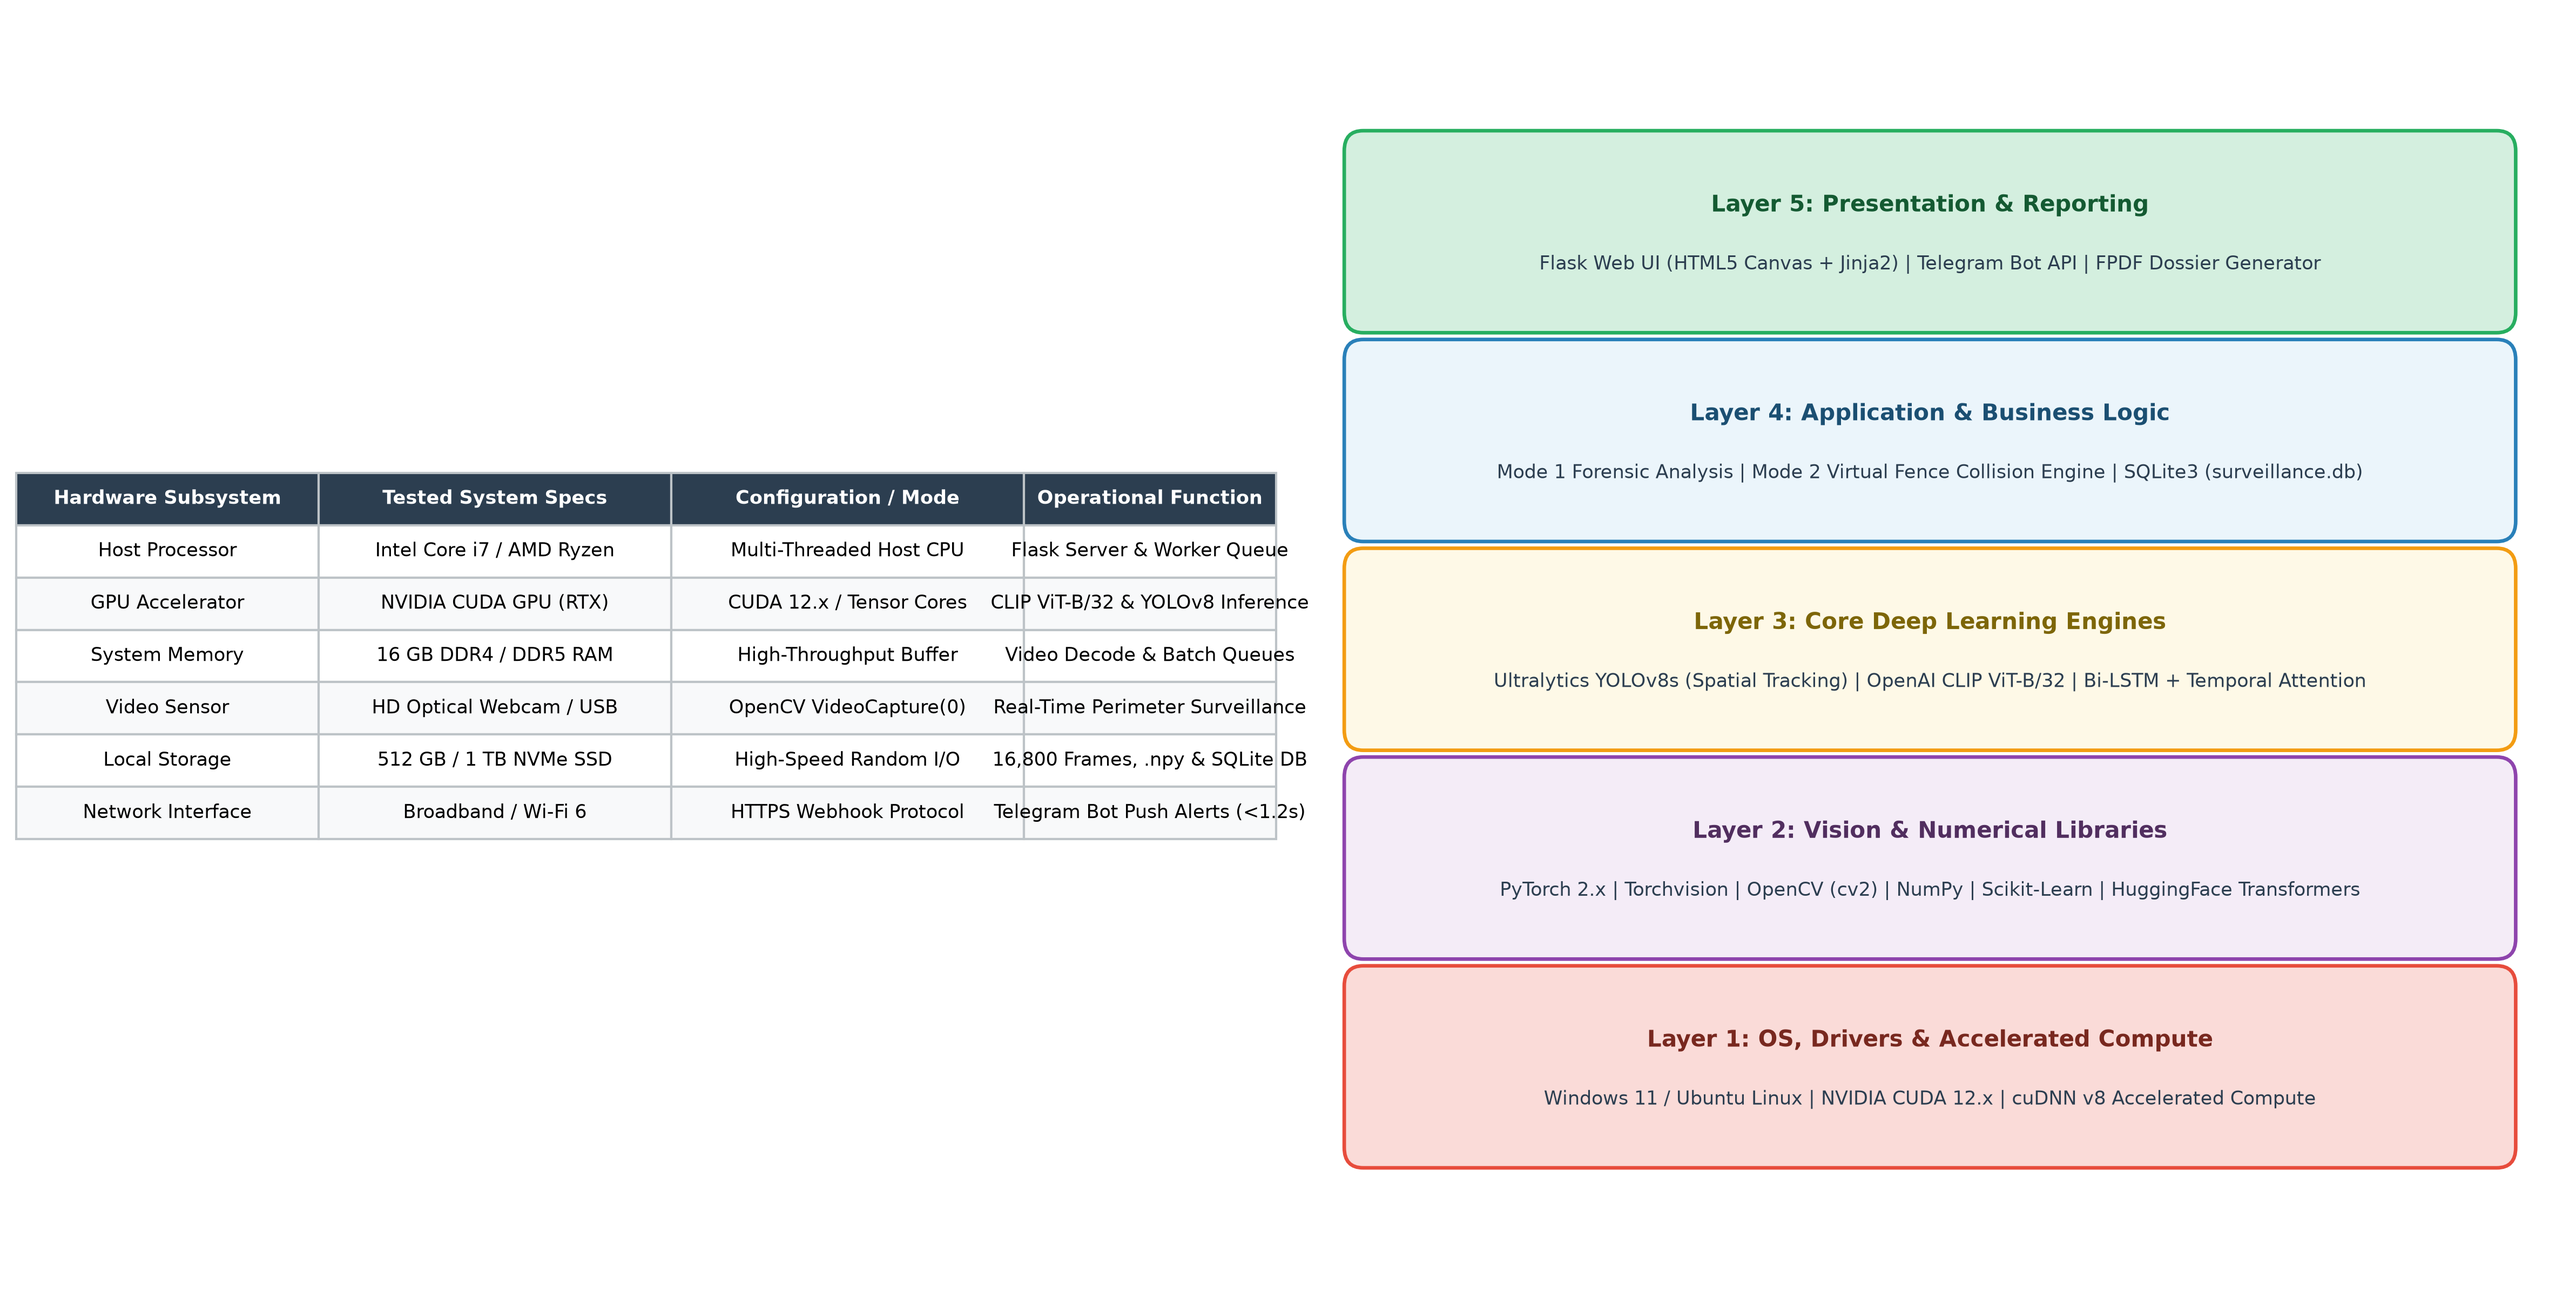
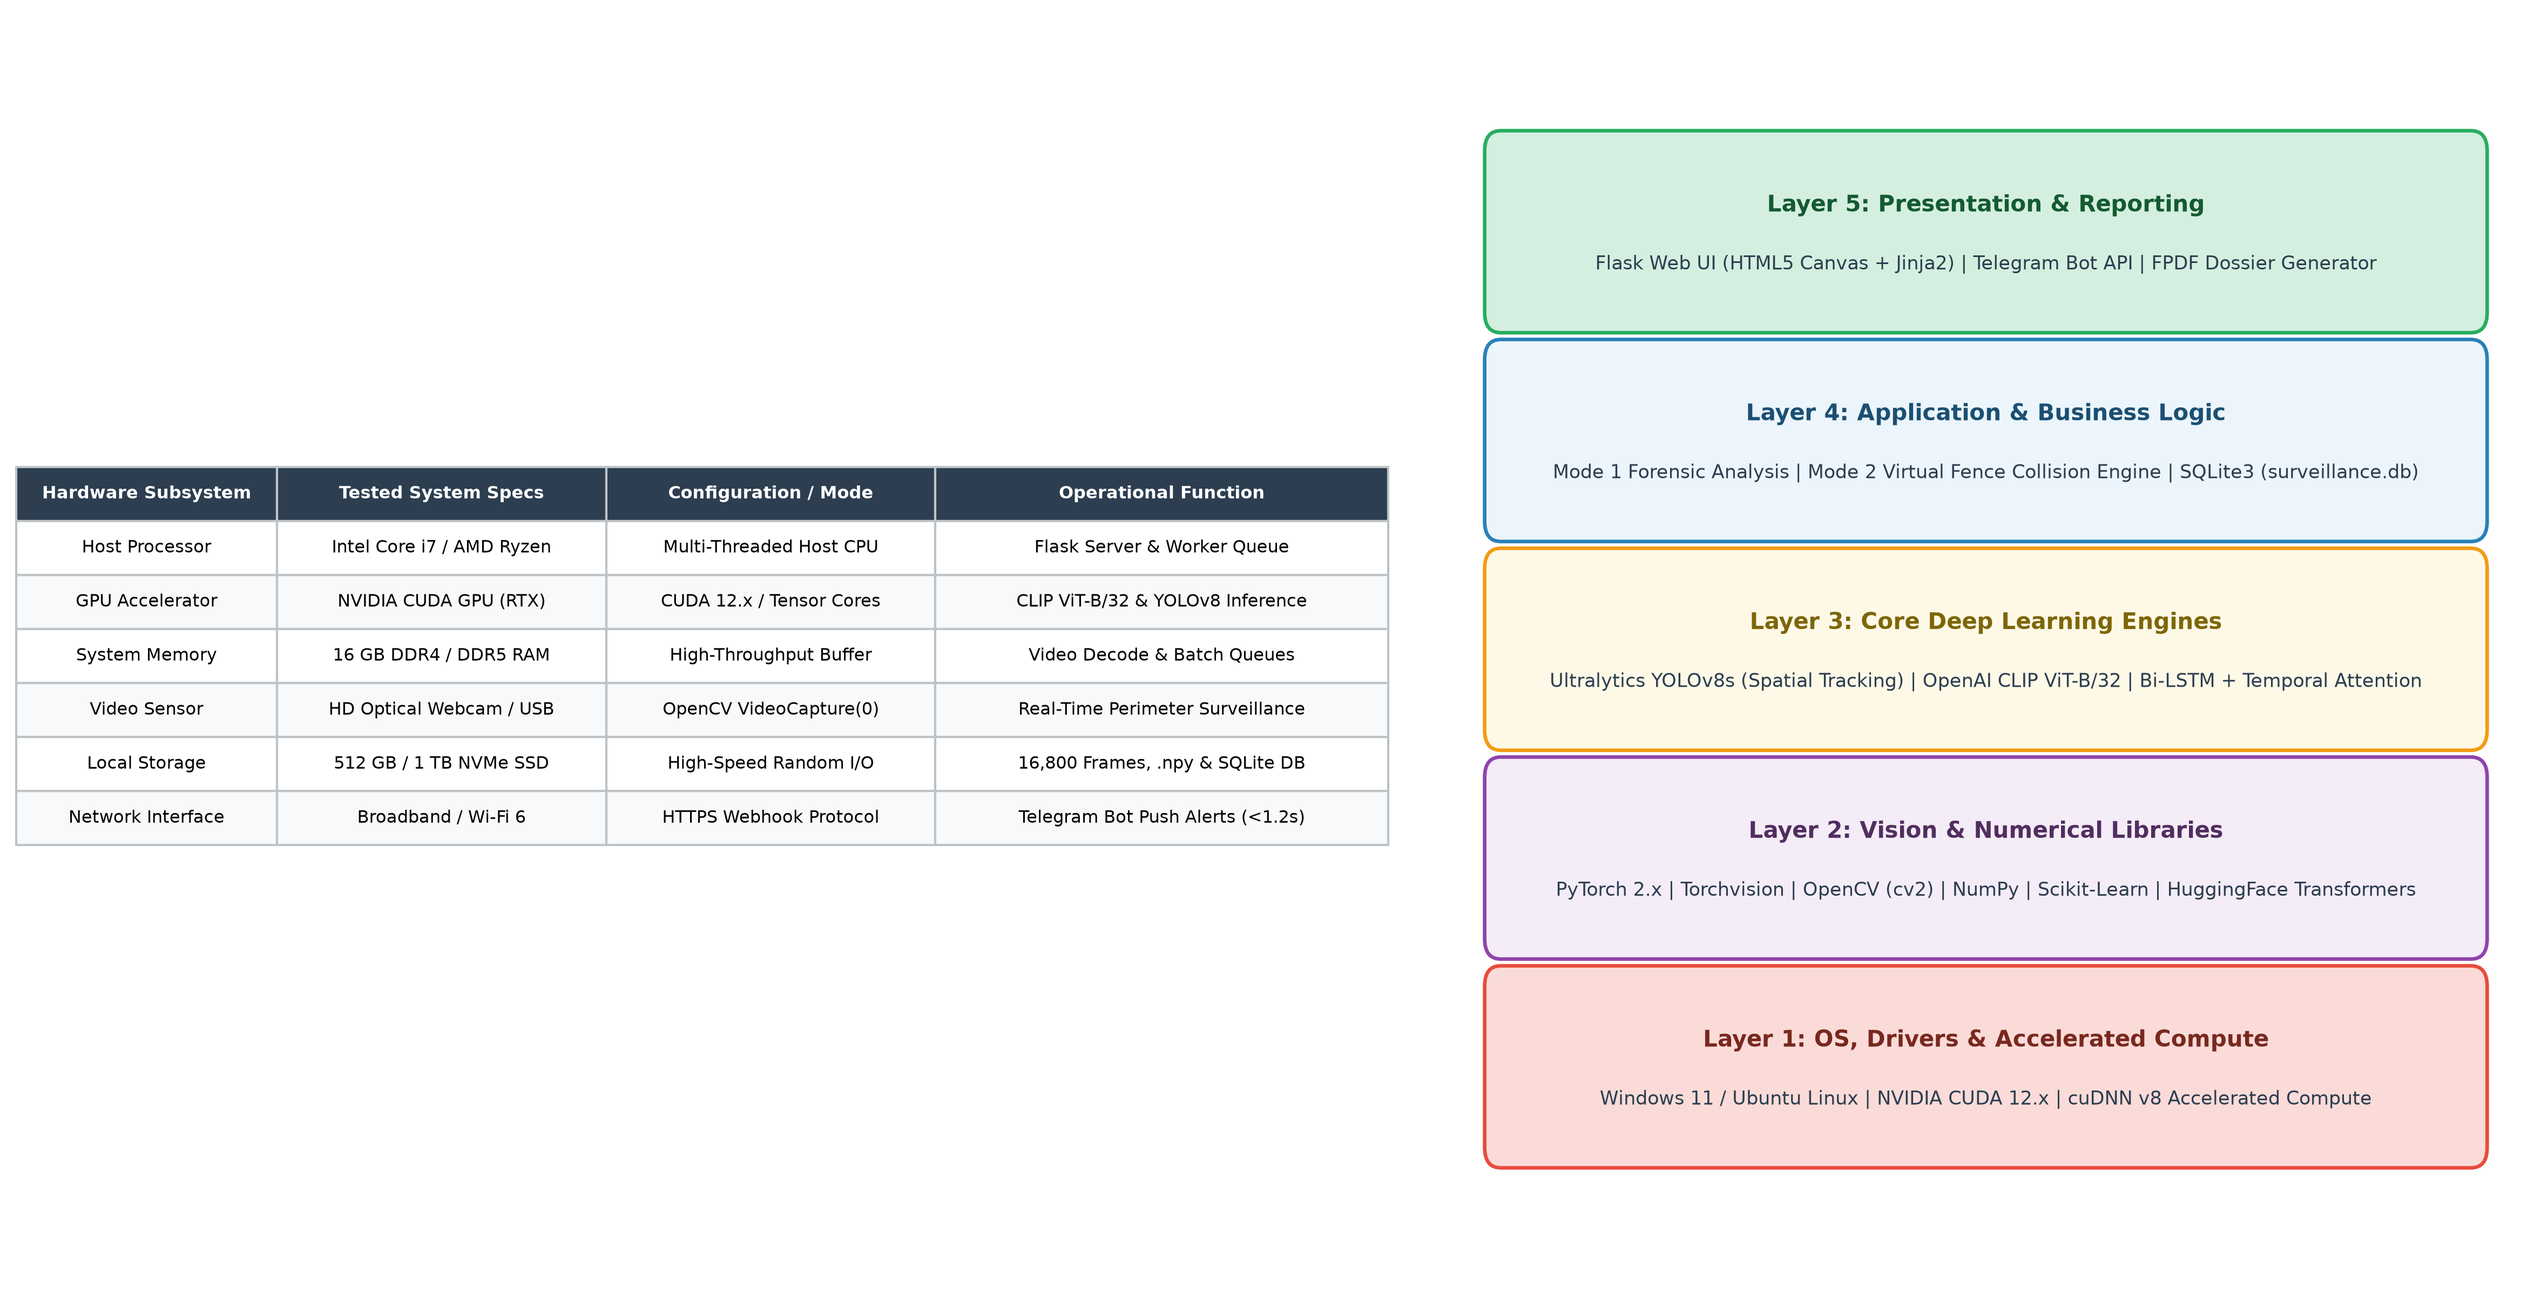
Fix table text cell overflow in hardware software stack diagram

diff --git a/generate_design_diagrams.py b/generate_design_diagrams.py
@@ -458,7 +458,7 @@ def make_data_design():
 # 5. HARDWARE & SOFTWARE DESIGN (Checklist Point 9 - Slide 12)
 # -----------------------------------------------------------------------------
 def make_hardware_software_stack():
-    fig, (ax_hw, ax_sw) = plt.subplots(1, 2, figsize=(16, 8.2), dpi=300, gridspec_kw={'width_ratios': [1, 1]})
+    fig, (ax_hw, ax_sw) = plt.subplots(1, 2, figsize=(16, 8.2), dpi=300, gridspec_kw={'width_ratios': [1.12, 0.88]})
 
     ax_hw.axis("off")
     ax_hw.set_xlim(0, 10)
@@ -474,10 +474,10 @@ def make_hardware_software_stack():
         ["Network Interface", "Broadband / Wi-Fi 6", "HTTPS Webhook Protocol", "Telegram Bot Push Alerts (<1.2s)"]
     ]
 
-    t_hw = ax_hw.table(cellText=hw_specs, cellLoc="center", loc="center", colWidths=[0.24, 0.28, 0.28, 0.20])
+    t_hw = ax_hw.table(cellText=hw_specs, cellLoc="center", loc="center", colWidths=[0.19, 0.24, 0.24, 0.33])
     t_hw.auto_set_font_size(False)
-    t_hw.set_fontsize(8.5)
-    t_hw.scale(1, 1.55)
+    t_hw.set_fontsize(7.8)
+    t_hw.scale(1, 1.6)
 
     for (r, c), cell in t_hw.get_celld().items():
         cell.set_edgecolor("#bdc3c7")
